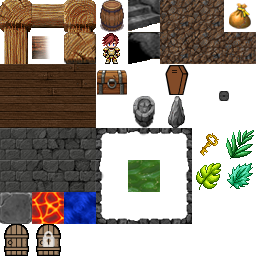
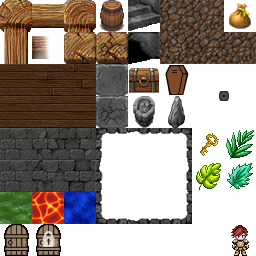
added new tile images

diff --git a/src/tile-image-enum.hpp b/src/tile-image-enum.hpp
@@ -15,6 +15,7 @@ namespace castlecrawl
     {
         Empty = 0,
         Rock,
+        RockWeak,
         Lava,
         Water,
         Slime,
@@ -39,6 +40,7 @@ namespace castlecrawl
         Wall_Vert,
         Wall_Shadow,
         Wall_Block,
+        Wall_BlockWeak,
         Floor_Wood1,
         Floor_Wood2,
         Floor_Wood3,
@@ -77,6 +79,7 @@ namespace castlecrawl
         switch (ch)
         {
             case 'r':    { return TileImage::Rock;               }
+            case 'R':    { return TileImage::RockWeak;           }
             case 'l':    { return TileImage::Lava;               }
             case 'w':    { return TileImage::Water;              }
             case 'g':    { return TileImage::Slime;              }
@@ -99,6 +102,7 @@ namespace castlecrawl
             case 'T':    { return TileImage::Wall_Top;           }
             case '|':    { return TileImage::Wall_Vert;          }
             case 'B':    { return TileImage::Wall_Block;         }
+            case 'q':    { return TileImage::Wall_BlockWeak;     }
             case 'p':    { return TileImage::Avatar;             }
             case '\x0':  { return TileImage::Floor_Wood1;        }
             case '\x1':  { return TileImage::Floor_Wood2;        }
@@ -141,16 +145,17 @@ namespace castlecrawl
         // clang-format off
         switch (tileImage)
         {
-            case TileImage::Rock:               { return sf::IntRect( {  0,192},{32,32}); }
+            case TileImage::Rock:               { return sf::IntRect( { 96, 64},{32,32}); }
+            case TileImage::RockWeak:           { return sf::IntRect( { 96, 96},{32,32}); }
             case TileImage::Lava:               { return sf::IntRect( { 32,192},{32,32}); }
             case TileImage::Water:              { return sf::IntRect( { 64,192},{32,32}); }
-            case TileImage::Slime:              { return sf::IntRect( {128,160},{32,32}); }
+            case TileImage::Slime:              { return sf::IntRect( {  0,192},{32,32}); }
             case TileImage::Stair_Up:           { return sf::IntRect( {128,  0},{32,32}); }
             case TileImage::Stair_Down:         { return sf::IntRect( {128, 32},{32,32}); }
             case TileImage::Barrel:             { return sf::IntRect( { 96,  0},{32,32}); }
             case TileImage::Door:               { return sf::IntRect( {  0,224},{32,32}); }
             case TileImage::DoorLocked:         { return sf::IntRect( { 32,224},{32,32}); }
-            case TileImage::Chest:              { return sf::IntRect( { 96, 64},{32,32}); }
+            case TileImage::Chest:              { return sf::IntRect( {128, 64},{32,32}); }
             case TileImage::Coffin:             { return sf::IntRect( {160, 64},{32,32}); }
             case TileImage::Bag:                { return sf::IntRect( {224,  0},{32,32}); }
             case TileImage::Altar:              { return sf::IntRect( {128, 96},{32,32}); }
@@ -164,7 +169,8 @@ namespace castlecrawl
             case TileImage::Wall_Top:           { return sf::IntRect( { 64,  0},{32,32}); }
             case TileImage::Wall_Vert:          { return sf::IntRect( {  0, 32},{32,32}); }
             case TileImage::Wall_Block:         { return sf::IntRect( { 64, 32},{32,32}); }
-            case TileImage::Avatar:             { return sf::IntRect( { 96, 32},{32,32}); }
+            case TileImage::Wall_BlockWeak:     { return sf::IntRect( { 96, 32},{32,32}); }
+            case TileImage::Avatar:             { return sf::IntRect( {224,224},{32,32}); }
             case TileImage::Floor_Wood1:        { return sf::IntRect( {  0, 64},{32,32}); }
             case TileImage::Floor_Wood2:        { return sf::IntRect( { 32, 64},{32,32}); }
             case TileImage::Floor_Wood3:        { return sf::IntRect( { 64, 64},{32,32}); }
@@ -196,7 +202,7 @@ namespace castlecrawl
             case TileImage::LiquidRim_BotRight: { return sf::IntRect( {160,192},{32,32}); }
             case TileImage::Wall_Shadow:        { return sf::IntRect( { 32, 32},{32,32}); }
             case TileImage::Empty:
-            default:                            { return sf::IntRect( {224,  0},{32,32}); }
+            default:                            { return sf::IntRect( {128,160},{32,32}); }
         }
         // clang-format on
     }

diff --git a/src/state-editor.cpp b/src/state-editor.cpp
@@ -253,13 +253,14 @@ namespace castlecrawl
         else if (keyScancode == sf::Keyboard::Scancode::Period)    { editMap(t_context, '.', '.'); }
         else if (keyScancode == sf::Keyboard::Scancode::D)         { editMap(t_context, 'D', 'd'); }
         else if (keyScancode == sf::Keyboard::Scancode::S)         { editMap(t_context, 'S', 's'); }
-        else if (keyScancode == sf::Keyboard::Scancode::R)         { editMap(t_context, 'r', 'r'); }
+        else if (keyScancode == sf::Keyboard::Scancode::R)         { editMap(t_context, 'R', 'r'); }
         else if (keyScancode == sf::Keyboard::Scancode::L)         { editMap(t_context, 'l', 'l'); }
         else if (keyScancode == sf::Keyboard::Scancode::W)         { editMap(t_context, 'w', 'w'); }
         else if (keyScancode == sf::Keyboard::Scancode::G)         { editMap(t_context, 'g', 'g'); }
         else if (keyScancode == sf::Keyboard::Scancode::B)         { editMap(t_context, 'b', 'b'); }
         else if (keyScancode == sf::Keyboard::Scancode::C)         { editMap(t_context, 'c', 'c'); }
         else if (keyScancode == sf::Keyboard::Scancode::K)         { editMap(t_context, 'k', 'k'); }
+        else if (keyScancode == sf::Keyboard::Scancode::Q)         { editMap(t_context, 'q', 'q'); }
         else if (keyScancode == sf::Keyboard::Scancode::Num0)      { editMap(t_context, '0', '0'); }
         else if (keyScancode == sf::Keyboard::Scancode::Num1)      { editMap(t_context, '!', '1'); }
         else if (keyScancode == sf::Keyboard::Scancode::Num2)      { editMap(t_context, '@', '2'); }
@@ -283,8 +284,8 @@ namespace castlecrawl
         {
             const std::string keyText(
                 "Esc-Quit\nCNTRL-s-Save\nCNTRL-l-Load\nSpace-Bare Floor\nPeriod-Erase\n"
-                "f-Change-Flooring\nr-Rock\nl-Lava\nw-Water\nc-Chest\nk-Coffin\n"
-                "!-Bag\n@-Altar\n#-StoneSpire\n$-Key\n%^&-Herbs\n"
+                "f-Change-Flooring\nr-Rock\nR-WeakRock\nl-Lava\nw-Water\nc-Chest\nk-Coffin\n"
+                "!-Bag\n@-Altar\n#-StoneSpire\n$-Key\n%^&-Herbs\nq-WeakWoodBlock\n"
                 "S-Stairs Up\ns-Stair Down\nD-Door Locked\nd-Door Unlocked\n"
                 "0-Snake\n1-SnakeBag\n2-Spider\n3-Spiderweb\n4-Goblin\n5-GoblinBarrel\n"
                 "6-Bat\n7-BatMask\n8-Skeleton\n9-SkeletonGrave\n:-Demon\n;-DemonDoor\n"
@@ -294,7 +295,7 @@ namespace castlecrawl
 
             m_keyText.setPosition({ ((t_context.layout.topRect().size.x * 0.5f) -
                                      (m_keyText.getGlobalBounds().size.x * 0.5f)),
-                                    (t_context.layout.topRect().size.y + 100.0f) });
+                                    (t_context.layout.topRect().size.y + 25.0f) });
         }
         else
         {
@@ -444,6 +445,7 @@ namespace castlecrawl
             case 'S': { return "Stairs Up"; }
             case 's': { return "Stairs Down"; }
             case 'r': { return "Rock"; }
+            case 'R': { return "Weak Rock"; }
             case 'l': { return "Lava"; }
             case 'w': { return "Water"; }
             case 'g': { return "Slime"; }

diff --git a/src/maps.cpp b/src/maps.cpp
@@ -262,7 +262,7 @@ namespace castlecrawl
                 "d               . bbwwwwwww..",
                 "....            d   www......",
                 "....            .   www......",
-                "............ ................",
+                "............q................",
                 ".......l  b     .............",
                 ".......bb      b.............",
                 ".......bbbbllbbb.............",
@@ -388,7 +388,7 @@ namespace castlecrawl
                 "ll .         .  l",
                 "ll .         .  l",
                 "ll .         .rrr",
-                "lrr..... .....rrr",
+                "lrR..... .....rrr",
                 "llrrrrr. .rrrrrrr",
                 "ll....r. ........",
                 "ll   .r.        d",
